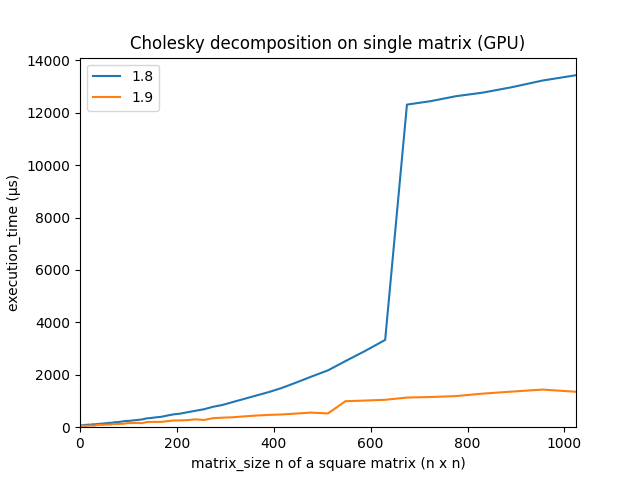
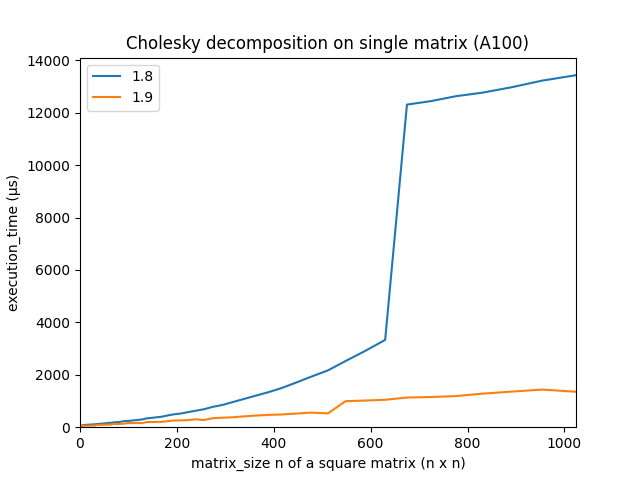
update figure

Changed region(s): [[0.1875, 0.0625, 0.8438, 0.125]]

diff --git a/linalg/cholesky_benchmark_for_torch1.9/plot.py b/linalg/cholesky_benchmark_for_torch1.9/plot.py
@@ -2,8 +2,11 @@ import matplotlib.pyplot as plt
 import seaborn as sns
 import json
 import collections
+import os
 
 THRESHOLD = 30000
+_full_path = os.getcwd()
+GPU = _full_path[_full_path.rfind('/')+1:]
 
 d = {
     "1.8": "res-56b43f4",
@@ -47,7 +50,7 @@ plt.plot(sx19, sy19)
 plt.xlim(0, max(*sx18, *sx19))
 plt.ylim(0, max(*sy18, *sy19) * 1.05)
 plt.legend(['1.8', '1.9'])
-plt.title(f'Cholesky decomposition on single matrix (GPU)')
+plt.title(f'Cholesky decomposition on single matrix ({GPU})')
 plt.xlabel('matrix_size n of a square matrix (n x n)')
 plt.ylabel(u'execution_time (μs)')
 plt.savefig('single.png', transparent=True)
@@ -72,7 +75,7 @@ for mat_size in (4, 32, 128):
     plt.xlim(0, max(*sx18_b, *sx19_b))
     plt.ylim(0, max(*sy18_b, *sy19_b) * 1.05)
     plt.legend(['1.8', '1.9'])
-    plt.title(f'Cholesky decomposition on batched matrices of {mat_size}x{mat_size} (GPU)')
+    plt.title(f'Cholesky decomposition on batched matrices of {mat_size}x{mat_size} ({GPU})')
     plt.xlabel('batch_size')
     plt.ylabel(u'execution_time (μs)')
     plt.savefig(f'batch_{mat_size}.png', transparent=True)
